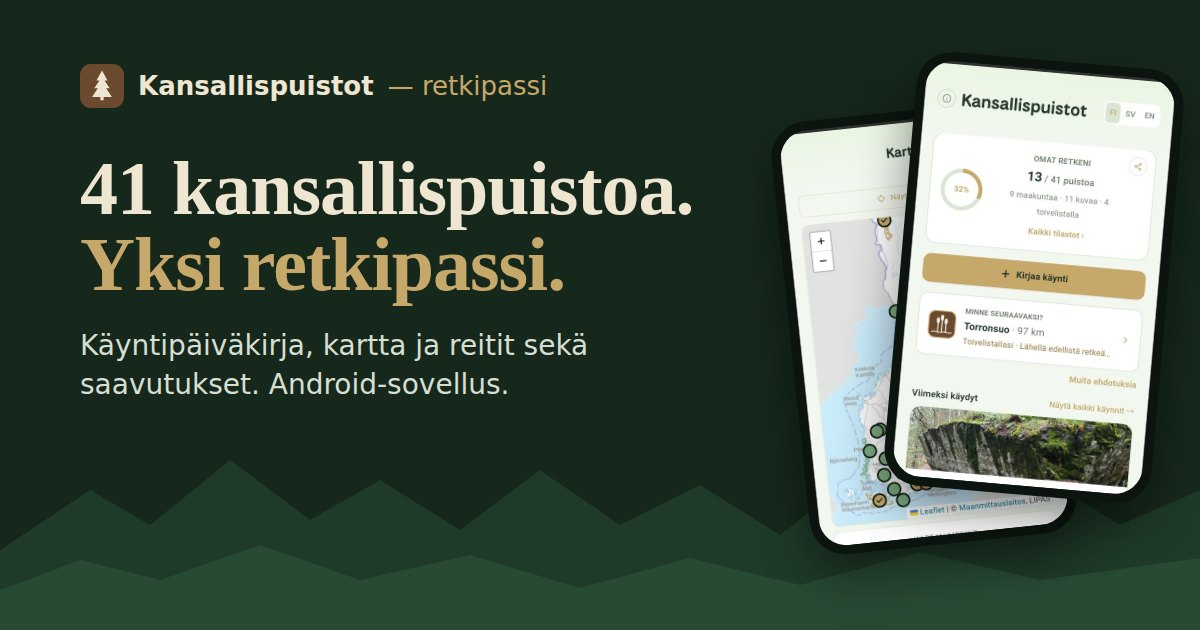
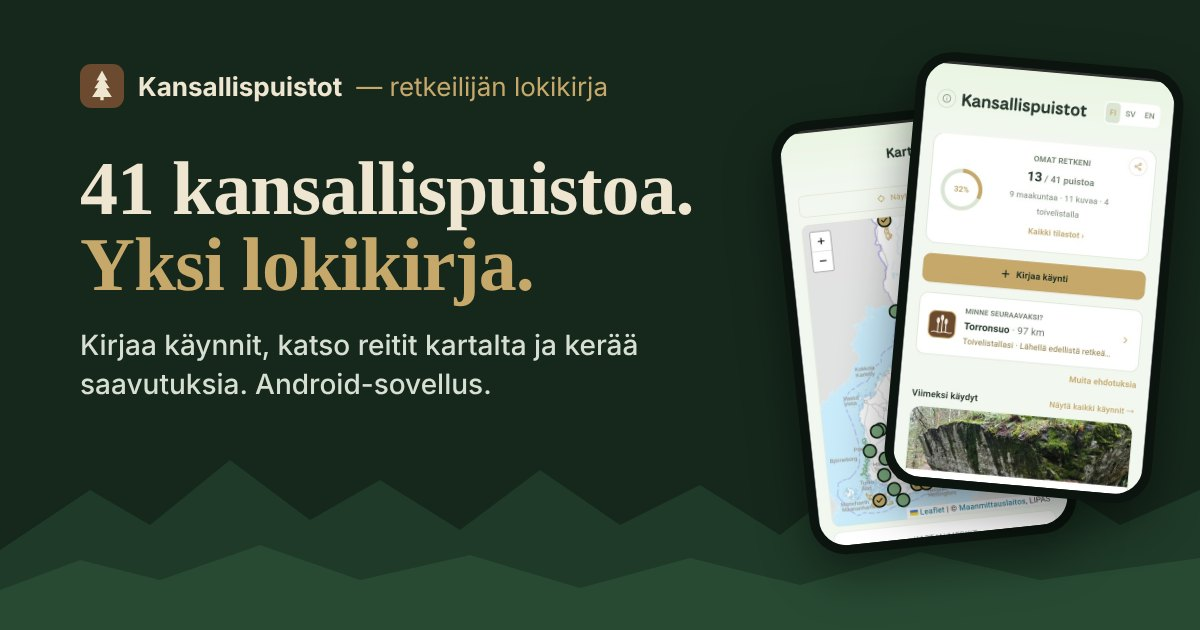
Add files via upload

Changed region(s): [[0.0617, 0.5127, 0.555, 0.6333], [0.185, 0.3619, 0.4625, 0.4825], [0.0925, 0.1206, 0.5242, 0.1508]]

diff --git a/index.html b/index.html
@@ -3,31 +3,31 @@
 <head>
 <meta charset="utf-8">
 <meta name="viewport" content="width=device-width, initial-scale=1">
-<title>Kansallispuistot — retkipassi | Kansallispuistosovellus Androidille</title>
-<meta name="description" content="Retkipassi Suomen kaikkiin 41 kansallispuistoon: kirjaa käynnit, katso vaellusreitit, tuvat ja laavut retkikartalta ja kerää saavutuksia. Android-sovellus suomeksi, ruotsiksi ja englanniksi – ei mainoksia, ei tiliä.">
+<title>Kansallispuistot — retkeilijän lokikirja | Kansallispuistosovellus Androidille</title>
+<meta name="description" content="Retkeilijän lokikirja Suomen kaikkiin 41 kansallispuistoon: kirjaa käynnit, katso vaellusreitit, tuvat ja laavut retkikartalta ja kerää saavutuksia. Android-sovellus suomeksi, ruotsiksi ja englanniksi – ei mainoksia, ei tiliä.">
 <link rel="canonical" href="https://kansallispuistotapp.github.io/">
-<meta property="og:title" content="Kansallispuistot — retkipassi">
+<meta property="og:title" content="Kansallispuistot — retkeilijän lokikirja">
 <meta property="og:description" content="Suomen kaikki 41 kansallispuistoa taskussasi – kirjaa käynnit, katso reitit kartalta ja löydä seuraava retkikohde.">
 <meta property="og:type" content="website">
 <meta property="og:url" content="https://kansallispuistotapp.github.io/">
-<meta property="og:site_name" content="Kansallispuistot — retkipassi">
+<meta property="og:site_name" content="Kansallispuistot — retkeilijän lokikirja">
 <meta property="og:locale" content="fi_FI">
 <meta property="og:locale:alternate" content="en_GB">
 <meta property="og:image" content="https://kansallispuistotapp.github.io/img/share.jpg">
 <meta property="og:image:width" content="1200">
 <meta property="og:image:height" content="630">
-<meta property="og:image:alt" content="Kansallispuistot — retkipassi: 41 kansallispuistoa, yksi retkipassi">
+<meta property="og:image:alt" content="Kansallispuistot — retkeilijän lokikirja: 41 kansallispuistoa, yksi lokikirja">
 <meta name="twitter:card" content="summary_large_image">
 <meta name="google-play-app" content="app-id=com.kansallispuistot.app">
 <script type="application/ld+json">
 {
  "@context": "https://schema.org",
  "@type": "MobileApplication",
- "name": "Kansallispuistot — retkipassi",
- "alternateName": "Kansallispuistot",
+ "name": "Kansallispuistot — retkeilijän lokikirja",
+ "alternateName": ["Kansallispuistot – retkeilyloki", "Retkeilyloki", "Kansallispuistot"],
  "operatingSystem": "Android",
  "applicationCategory": "TravelApplication",
- "description": "Retkipassi Suomen kaikkiin 41 kansallispuistoon: käyntipäiväkirja, retkikartta reitteineen ja taukopaikkoineen, saavutukset ja retkivinkit.",
+ "description": "Retkeilijän lokikirja Suomen kaikkiin 41 kansallispuistoon: käyntipäiväkirja, retkikartta reitteineen ja taukopaikkoineen, saavutukset ja retkivinkit.",
  "inLanguage": [
   "fi",
   "sv",
@@ -73,7 +73,7 @@
   .langs button { background:none; border:0; color:#9db89f; font:600 13px system-ui,sans-serif; padding:6px 10px; border-radius:8px; cursor:pointer; min-width:40px; min-height:32px; }
   .langs button[aria-pressed="true"] { background:var(--forest-3); color:var(--gold); }
   .brand-sub { font-weight:500; opacity:.8; }
-  @media (max-width:420px){ .brand-sub{ display:none; } }
+  @media (max-width:600px){ .brand-sub{ display:none; } }
   .brand { display:flex; align-items:center; gap:10px; font-weight:800; font-size:18px; color:var(--cream); text-decoration:none; }
 
   /* hero */
@@ -146,7 +146,7 @@
   <div class="wrap">
     <a class="brand" href="#">
       <svg width="30" height="30" viewBox="0 0 40 40" aria-hidden="true"><rect width="40" height="40" rx="10" fill="#6b4a2f"></rect><path d="M20 6 L25 15 L22.3 15 L27 22 L23.8 22 L29 30 L11 30 L16.2 22 L13 22 L17.7 15 L15 15 Z M18.5 30 L21.5 30 L21.5 33 L18.5 33 Z" fill="#efe6d2"></path></svg>
-      <span>Kansallispuistot<span class="brand-sub"> — retkipassi</span></span>
+      <span>Kansallispuistot<span class="brand-sub"> — retkeilijän lokikirja</span></span>
     </a>
     <nav aria-label="Sivun osiot">
       <a class="hide-s" href="#ominaisuudet"><span class="fi">Ominaisuudet</span><span class="en">Features</span></a>
@@ -188,7 +188,7 @@
   <section id="ominaisuudet">
     <div class="wrap">
       <h2><span class="fi">Kaikki retkeilijän tarvitsema yhdessä paikassa</span><span class="en">Everything a hiker needs in one place</span></h2>
-      <p class="sub"><span class="fi">Kansallispuistot — retkipassi on retkeily- ja vaellussovellus kansallispuistoissa kulkeville – niin ensimmäistä puistoaan suunnittelevalle kuin kaikkia 41:tä keräävälle. Se toimii retkipassina, retkipäiväkirjana ja retkikarttana samassa sovelluksessa.</span><span class="en">A hiking app for people who explore Finland's national parks – whether you're planning your first park or collecting all 41. It works as a park passport, hiking journal and trail map in one.</span></p>
+      <p class="sub"><span class="fi">Kansallispuistot — retkeilijän lokikirja on retkeily- ja vaellussovellus kansallispuistoissa kulkeville – niin ensimmäistä puistoaan suunnittelevalle kuin kaikkia 41:tä keräävälle. Se toimii retkeilylokina, retkipäiväkirjana ja retkikarttana samassa sovelluksessa.</span><span class="en">A hiking app for people who explore Finland's national parks – whether you're planning your first park or collecting all 41. It works as a hiking log, trip journal and trail map in one.</span></p>
       <div class="grid">
         <div class="card">
           <div class="icon"><svg width="26" height="26" viewBox="0 0 24 24" fill="none" stroke="#efe6d2" stroke-width="2" stroke-linecap="round" stroke-linejoin="round" aria-hidden="true"><path d="M4 19.5V5a2 2 0 0 1 2-2h12v18H6a2 2 0 0 1-2-1.5z"></path><path d="M8 7h6M8 11h6"></path></svg></div>
@@ -274,14 +274,14 @@
         <dt>Metsähallitus / luontoon.fi</dt>
         <dd><span class="fi">Linkit puistojen virallisille sivuille ajantasaista tietoa varten</span><span class="en">Links to the official park pages for up-to-date information</span></dd>
       </dl>
-      <p class="note"><span class="fi">Kansallispuistot — retkipassi on yksityisen kehittäjän sovellus, eikä se ole Metsähallituksen virallinen palvelu. Tarkista ajantasaiset tiedot, reittien kunto ja mahdolliset sulkemiset aina luontoon.fi-sivustolta.</span><span class="en">Kansallispuistot — retkipassi is an independent app and not an official service of Metsähallitus (Parks &amp; Wildlife Finland). Always check current information, trail conditions and closures on luontoon.fi.</span></p>
+      <p class="note"><span class="fi">Kansallispuistot — retkeilijän lokikirja on yksityisen kehittäjän sovellus, eikä se ole Metsähallituksen virallinen palvelu. Tarkista ajantasaiset tiedot, reittien kunto ja mahdolliset sulkemiset aina luontoon.fi-sivustolta.</span><span class="en">Kansallispuistot — retkeilijän lokikirja is an independent app and not an official service of Metsähallitus (Parks &amp; Wildlife Finland). Always check current information, trail conditions and closures on luontoon.fi.</span></p>
     </div>
   </section>
 </main>
 
 <footer>
   <div class="wrap">
-    <div>© 2026 Kansallispuistot — retkipassi · <a href="mailto:kansallispuistot.app@gmail.com">kansallispuistot.app@gmail.com</a></div>
+    <div>© 2026 Kansallispuistot — retkeilijän lokikirja · <a href="mailto:kansallispuistot.app@gmail.com">kansallispuistot.app@gmail.com</a></div>
     <div><a href="tietosuoja/"><span class="fi">Tietosuojaseloste</span><span class="en">Privacy policy</span></a> · <a href="https://play.google.com/store/apps/details?id=com.kansallispuistot.app" rel="noopener">Google Play</a></div>
   </div>
 </footer>

diff --git a/tietosuoja/index.html b/tietosuoja/index.html
@@ -3,8 +3,8 @@
 <head>
 <meta charset="utf-8">
 <meta name="viewport" content="width=device-width, initial-scale=1">
-<title>Kansallispuistot — retkipassi – Tietosuojaseloste / Privacy Policy</title>
-<meta name="description" content="Kansallispuistot — retkipassi -sovelluksen tietosuojaseloste: tiedot tallentuvat vain omaan puhelimeesi, ei tiliä, mainoksia eikä seurantaa.">
+<title>Kansallispuistot — retkeilijän lokikirja – Tietosuojaseloste / Privacy Policy</title>
+<meta name="description" content="Kansallispuistot — retkeilijän lokikirja -sovelluksen tietosuojaseloste: tiedot tallentuvat vain omaan puhelimeesi, ei tiliä, mainoksia eikä seurantaa.">
 <link rel="canonical" href="https://kansallispuistotapp.github.io/tietosuoja/">
 <style>
   :root { --bg:#f2f7ef; --card:#ffffff; --text:#26392a; --body:#3d5142; --muted:#6b7d67; --accent:#9a7b3c; --line:#dbe5d3; }
@@ -30,22 +30,22 @@
 </head>
 <body>
 <main>
-  <p style="margin:0 0 16px"><a href="../" style="font-weight:600;text-decoration:none">← Kansallispuistot — retkipassi</a></p>
-  <h1>Kansallispuistot — retkipassi</h1>
+  <p style="margin:0 0 16px"><a href="../" style="font-weight:600;text-decoration:none">← Kansallispuistot — retkeilijän lokikirja</a></p>
+  <h1>Kansallispuistot — retkeilijän lokikirja</h1>
   <p class="meta">Tietosuojaseloste · Privacy Policy</p>
   <nav class="lang"><a href="#fi">Suomeksi</a><a href="#en">In English</a></nav>
 
   <!-- ===================== SUOMI ===================== -->
   <section class="policy" id="fi" lang="fi">
     <h2>Tietosuojaseloste</h2>
-    <p class="meta">Päivitetty 12.10.2026 · Koskee Kansallispuistot — retkipassi -sovellusta (Android)</p>
+    <p class="meta">Päivitetty 12.10.2026 · Koskee Kansallispuistot — retkeilijän lokikirja -sovellusta (Android)</p>
 
     <div class="box">
       <p><strong>Lyhyesti:</strong> sovellus ei kerää sinusta tietoja. Käyntisi, muistiinpanosi, kuvasi ja sijaintisi pysyvät puhelimessasi. Sovelluksessa ei ole käyttäjätiliä, mainoksia, analytiikkaa eikä seurantaa, eikä kehittäjä saa tietojasi missään vaiheessa.</p>
     </div>
 
     <h3>1. Rekisterinpitäjä ja yhteystiedot</h3>
-    <p>Kansallispuistot — retkipassi -sovelluksen kehittäjä (yksityinen sovelluskehittäjä, Suomi). Yhteydenotot: <a href="mailto:kansallispuistot.app@gmail.com">kansallispuistot.app@gmail.com</a>.</p>
+    <p>Kansallispuistot — retkeilijän lokikirja -sovelluksen kehittäjä (yksityinen sovelluskehittäjä, Suomi). Yhteydenotot: <a href="mailto:kansallispuistot.app@gmail.com">kansallispuistot.app@gmail.com</a>.</p>
 
     <h3>2. Mitä tietoja sovellus tallentaa ja minne</h3>
     <p>Kaikki alla oleva tallennetaan <strong>vain puhelimesi omaan muistiin</strong> (sovelluksen paikallinen tallennustila). Tietoja ei lähetetä kehittäjälle eikä mihinkään palvelimeen.</p>
@@ -99,14 +99,14 @@
   <!-- ===================== ENGLISH ===================== -->
   <section class="policy" id="en" lang="en">
     <h2>Privacy Policy</h2>
-    <p class="meta">Last updated 12 October 2026 · Applies to the Kansallispuistot — retkipassi app (Android)</p>
+    <p class="meta">Last updated 12 October 2026 · Applies to the Kansallispuistot — retkeilijän lokikirja app (Android)</p>
 
     <div class="box">
       <p><strong>In short:</strong> the app does not collect data about you. Your visits, notes, photos and location stay on your phone. There is no account, no advertising, no analytics and no tracking, and the developer never receives your data.</p>
     </div>
 
     <h3>1. Who is responsible</h3>
-    <p>The developer of the Kansallispuistot — retkipassi app (an independent developer in Finland). Contact: <a href="mailto:kansallispuistot.app@gmail.com">kansallispuistot.app@gmail.com</a>.</p>
+    <p>The developer of the Kansallispuistot — retkeilijän lokikirja app (an independent developer in Finland). Contact: <a href="mailto:kansallispuistot.app@gmail.com">kansallispuistot.app@gmail.com</a>.</p>
 
     <h3>2. What the app stores and where</h3>
     <p>Everything below is stored <strong>only on your own phone</strong> (the app's local storage). It is never sent to the developer or to any server.</p>
